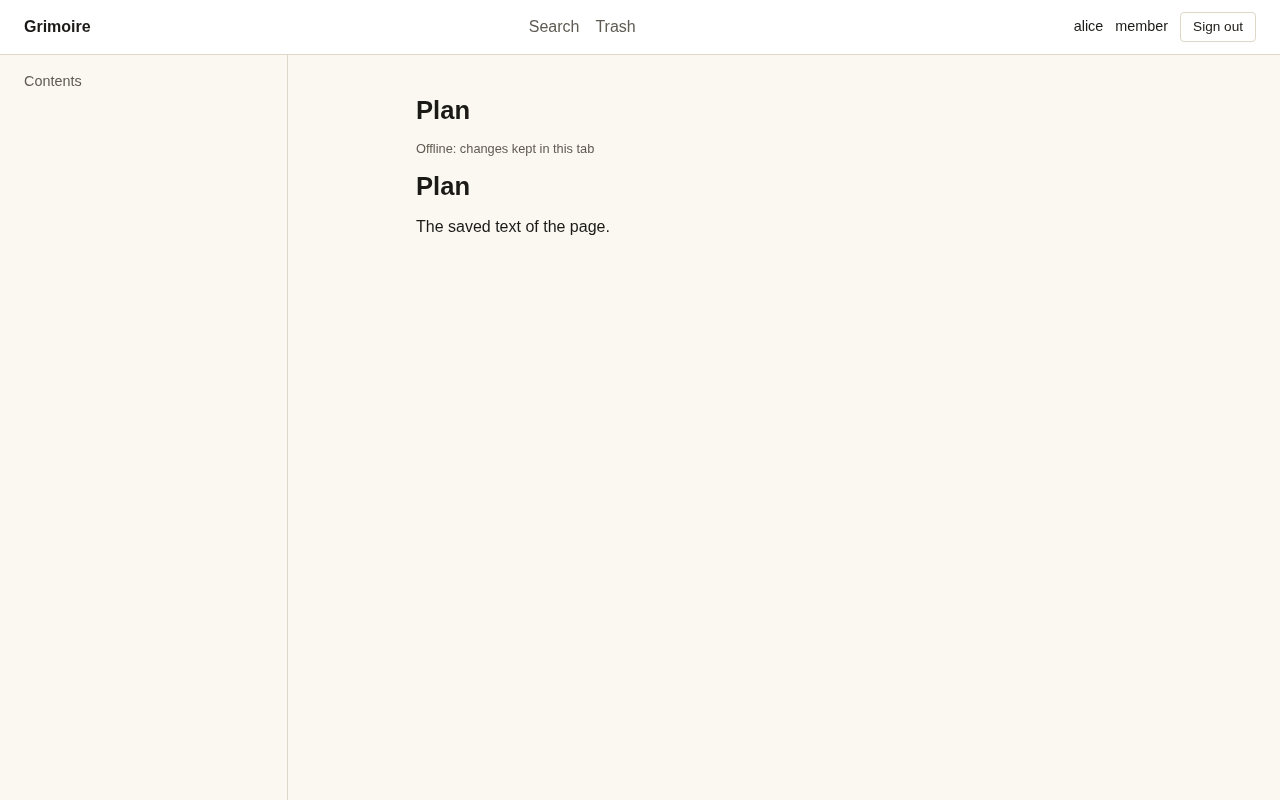
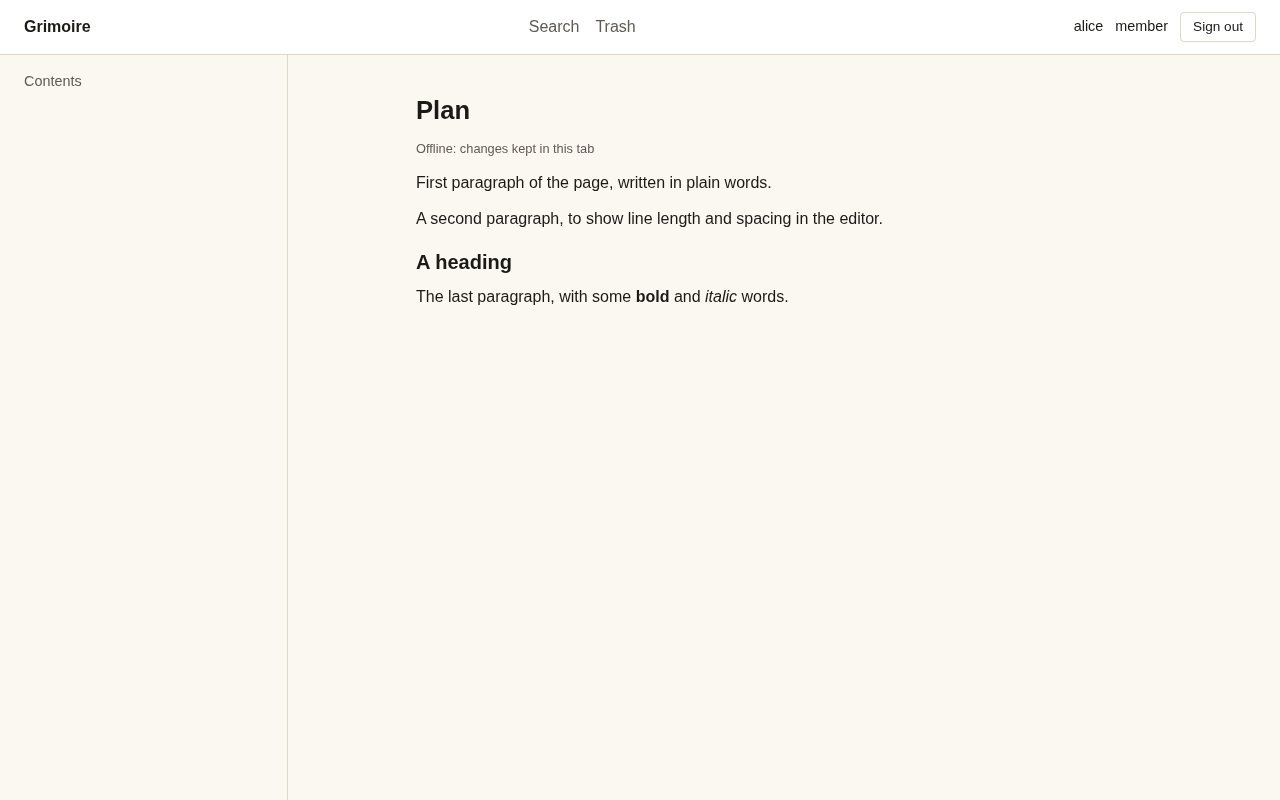
fix(web): say Read only once; retake the page screenshots with a body that does not repeat the title

Changed region(s): [[0.3125, 0.2188, 0.6875, 0.375]]

diff --git a/apps/web/test/editor/page-view.test.tsx b/apps/web/test/editor/page-view.test.tsx
@@ -253,4 +253,12 @@ describe('the page screen', () => {
     await act(async () => void t.sessions[0]!.provider.stateless({ kind: 'refusal', code: 'presence-violation' }));
     await waitFor(() => expect(t.root().getAttribute('data-collab-state')).toBe('connecting'));
   });
+
+  it('says Read only once: as the label, not also as the status line', async () => {
+    const t = mountPage({ page: page({ myPermission: 'read-only' }) });
+    await t.synced();
+    await waitFor(() => expect(screen.getByRole('status').textContent).toBe('Live'));
+    act(() => void t.sessions[0]!.provider.emit({ type: 'authenticated', scope: 'readonly' }));
+    expect(screen.getAllByText('Read only')).toHaveLength(1);
+  });
 });

diff --git a/apps/web/src/screens/page/PageView.tsx b/apps/web/src/screens/page/PageView.tsx
@@ -128,7 +128,8 @@ export function PageView({ page, engine = realEngine }: { page: PageMeta; engine
   }, [page.id, session, engine]);
 
   const collab: CollabState = state.stopped !== null ? 'stopped' : state.offline ? 'offline' : liveReady && state.phase === 'synced' ? 'synced' : 'connecting';
-  const status = state.text ?? (collab === 'synced' ? 'Live' : collab === 'connecting' ? 'Connecting…' : null);
+  // The 'Read only' text of the scope is the label beside the title, not a second line of status.
+  const status = (state.text === 'Read only' ? null : state.text) ?? (collab === 'synced' ? 'Live' : collab === 'connecting' ? 'Connecting…' : null);
 
   return (
     <div className="page-layout">
